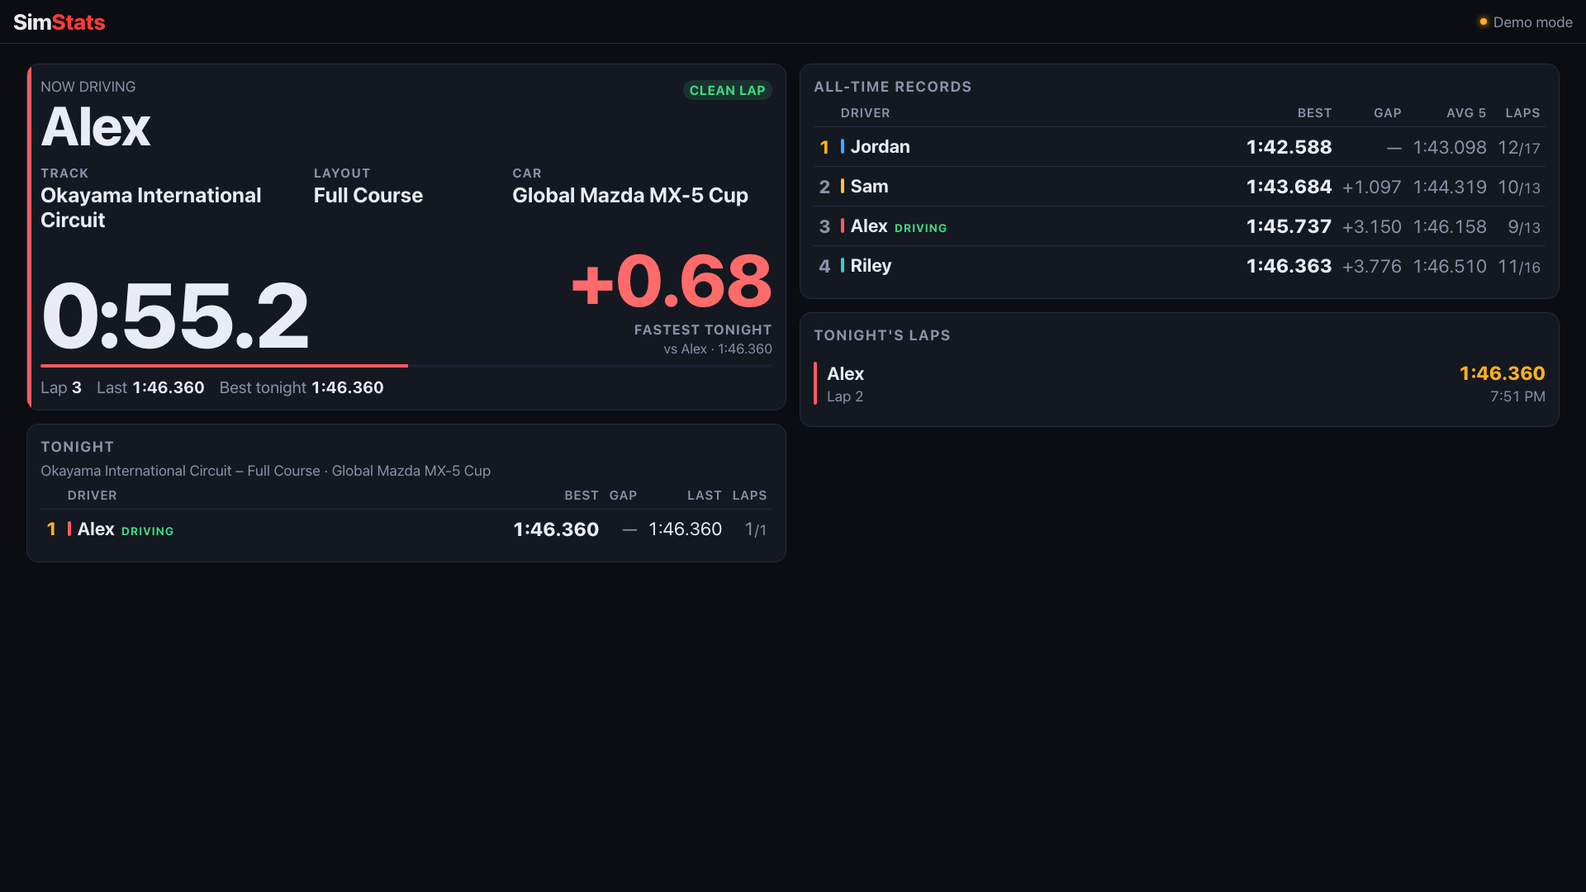
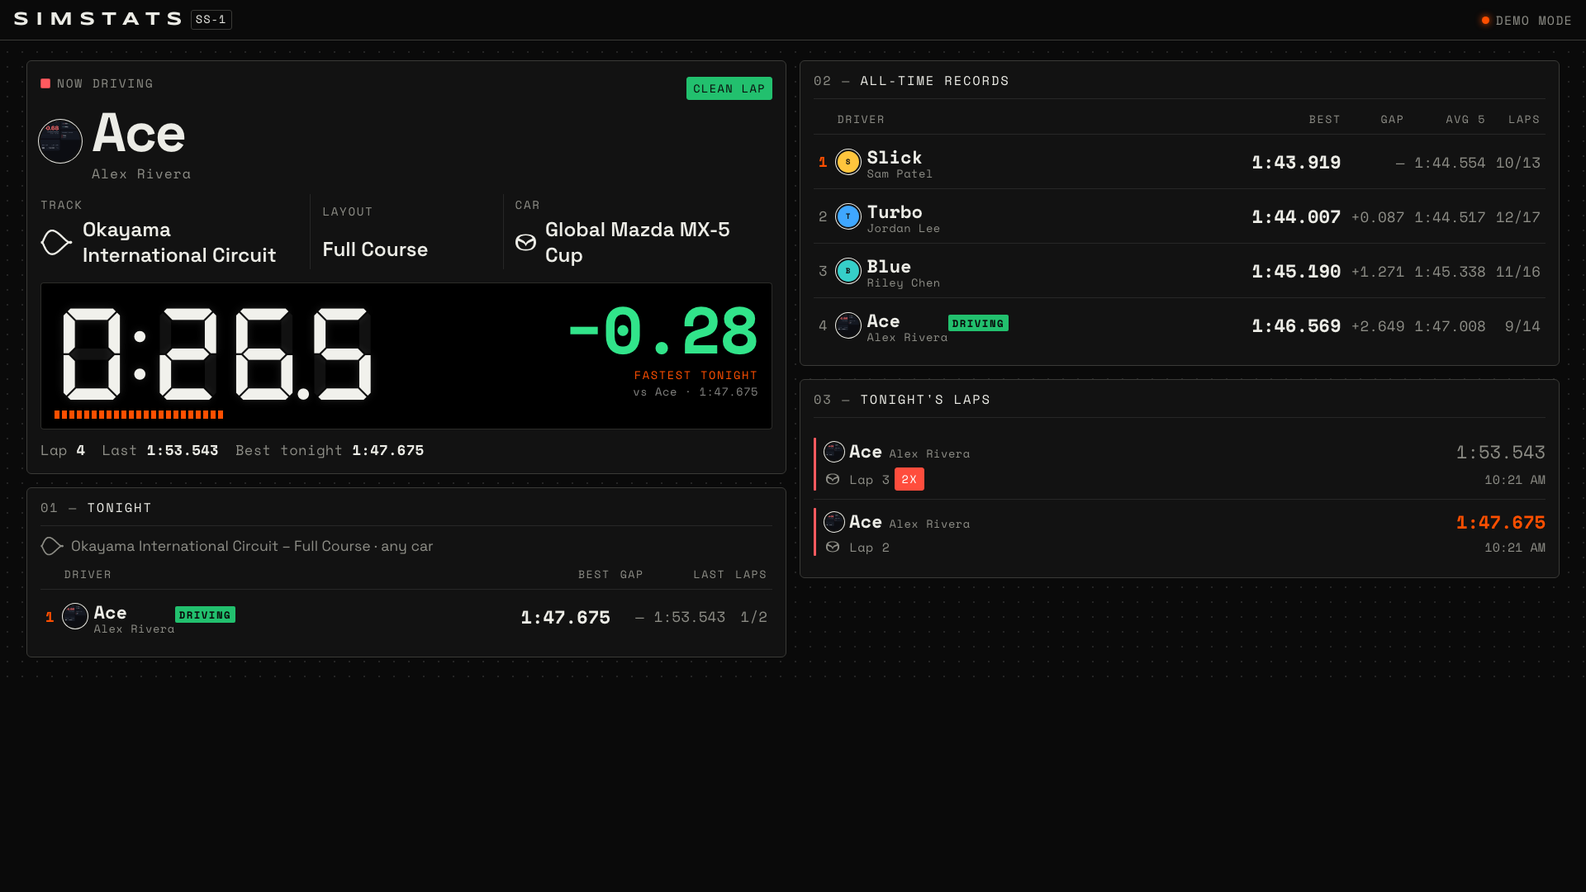
racing: match the SimStats redesign (black dot grid, wordmark, numbered panels) (#11)
Fonts (Space Mono, Syncopate) are self-hosted via next/font. Homepage SimStats
screenshot updated to the new TV view.

diff --git a/app/racing/racing.module.css b/app/racing/racing.module.css
@@ -1,157 +1,216 @@
-/* app/racing/racing.module.css: read-only SimStats dashboard */
+/* app/racing/racing.module.css: read-only SimStats dashboard.
+   Same look as the SimStats app: black dot-grid chassis, dark panels with fine grey
+   outlines, numbered mono labels, one orange accent. */
 
 .root {
-  --bg: #0b0d12;
-  --card: #141821;
-  --card2: #1b2030;
-  --border: #252b3b;
-  --text: #e9ecf3;
-  --muted: #8a93a8;
-  --accent: #dc2626;
-  --record: #b37feb;
-  --night: #ffb020;
-  --pb: #3ddc84;
-  --bad: #ff6b6b;
+  --chassis: #0a0a0a;
+  --grid-dot: rgba(255, 255, 255, 0.11);
+  --panel: #121212;
+  --panel2: #1b1b1a;
+  --ink: #ececE6;
+  --line: #3a3a37;
+  --muted: #8d8d86;
+  --hair: rgba(255, 255, 255, 0.09);
+  --accent: #ff4f00;
+  --record: #8f72ff;
+  --pb: #22c06e;
+  --bad: #ff4d3d;
+  --mono: var(--font-racing-mono), ui-monospace, Menlo, monospace;
   min-height: 100dvh;
-  background: var(--bg);
-  color: var(--text);
+  color: var(--ink);
+  background-color: var(--chassis);
+  background-image: radial-gradient(circle, var(--grid-dot) 1px, transparent 1.3px);
+  background-size: 18px 18px;
+  background-attachment: fixed;
   -webkit-font-smoothing: antialiased;
 }
-.num { font-variant-numeric: tabular-nums; font-feature-settings: "tnum"; }
+.num { font-family: var(--mono); font-variant-numeric: tabular-nums; }
 .muted { color: var(--muted); }
 .small { font-size: 0.8rem; }
 
-/* header */
+/* header: wordmark + model tag + status LED */
 .topbar {
   position: sticky; top: 0; z-index: 10;
   display: flex; align-items: center; justify-content: space-between; gap: 12px;
   padding: calc(12px + env(safe-area-inset-top)) 16px 12px;
-  background: rgba(11, 13, 18, 0.92); backdrop-filter: blur(10px);
-  border-bottom: 1px solid var(--border);
+  background: var(--chassis); border-bottom: 1px solid var(--line);
 }
-.brand { font-weight: 800; font-size: 1.2rem; letter-spacing: -0.02em; display: flex; align-items: baseline; gap: 10px; }
-.brand span { color: var(--accent); }
-.back { font-size: 0.8rem; font-weight: 500; color: var(--muted); }
-.back:hover { color: var(--text); }
-.status { display: flex; align-items: center; gap: 8px; font-size: 0.8rem; color: var(--muted); white-space: nowrap; }
-.dot { width: 8px; height: 8px; border-radius: 50%; background: #555; display: inline-block; }
-.dotLive { background: var(--accent); box-shadow: 0 0 10px var(--accent); animation: pulse 1.6s infinite; }
+.brand { display: flex; align-items: center; gap: 12px; flex-wrap: wrap; }
+.brand > a { display: inline-flex; align-items: center; gap: 10px; }
+.wordmark { font-family: var(--font-racing-wordmark), sans-serif; font-weight: 700; font-size: 1.02rem; letter-spacing: 0.36em; margin-right: -0.36em; }
+.model { font-family: var(--mono); font-size: 0.62rem; letter-spacing: 0.08em; border: 1px solid var(--line); border-radius: 3px; padding: 1px 5px; line-height: 1.4; }
+.back { font-family: var(--mono); font-size: 0.64rem; letter-spacing: 0.1em; text-transform: uppercase; color: var(--muted); }
+.back:hover { color: var(--accent); }
+.status { display: flex; align-items: center; gap: 8px; font-family: var(--mono); font-size: 0.66rem; letter-spacing: 0.08em; text-transform: uppercase; color: var(--muted); white-space: nowrap; }
+.dot { width: 9px; height: 9px; border-radius: 50%; background: #3a3a37; display: inline-block; }
+.dotLive { background: var(--accent); box-shadow: 0 0 8px var(--accent); animation: pulse 1.6s infinite; }
 @keyframes pulse { 50% { opacity: 0.45; } }
 
-.main { max-width: 1400px; margin: 0 auto; padding: 16px; }
-.intro { color: var(--muted); font-size: 0.95rem; margin: 4px 0 16px; line-height: 1.5; }
-.intro a { color: var(--text); text-decoration: underline; text-underline-offset: 3px; }
+.main { max-width: 1400px; margin: 0 auto; padding: 16px; counter-reset: section; }
+.intro { color: var(--muted); font-size: 0.95rem; margin: 4px 0 16px; line-height: 1.55; max-width: 62em; }
+.intro b { color: var(--ink); }
 
 /* "open the full app" (home network only) */
 .localBox { display: flex; flex-wrap: wrap; align-items: center; gap: 8px 14px; margin: 0 0 18px; }
 .localBtn {
-  display: inline-flex; align-items: center; gap: 6px; padding: 9px 14px; border-radius: 10px;
-  border: 1px solid var(--accent); color: #fff; background: rgba(220, 38, 38, 0.15); font-weight: 700; font-size: 0.9rem;
+  display: inline-flex; align-items: center; gap: 6px; padding: 9px 14px; border-radius: 4px;
+  border: 1px solid var(--line); background: var(--accent); color: #111;
+  font-family: var(--mono); font-size: 0.72rem; letter-spacing: 0.08em; text-transform: uppercase;
+  box-shadow: 0 2px 0 #000;
 }
-.localBtn:hover { background: var(--accent); }
-.localNote { color: var(--muted); font-size: 0.78rem; }
+.localBtn:active { transform: translateY(2px); box-shadow: none; }
+.localNote { color: var(--muted); font-family: var(--mono); font-size: 0.66rem; letter-spacing: 0.02em; }
 
-.tabs { display: flex; gap: 4px; margin-bottom: 16px; border-bottom: 1px solid var(--border); }
-.tab { background: none; border: 0; padding: 10px 14px; color: var(--muted); font: inherit; font-weight: 600; cursor: pointer; }
-.tab:hover { color: var(--text); }
-.tabOn { color: var(--text); box-shadow: inset 0 -2px 0 var(--accent); }
+/* tabs: numbered keys */
+.tabs { display: flex; margin-bottom: 16px; border: 1px solid var(--line); border-radius: 4px; overflow: hidden; width: fit-content; background: var(--panel); }
+.tab {
+  position: relative; background: none; border: 0; padding: 8px 16px 9px; cursor: pointer; color: var(--muted);
+  font-family: var(--mono); font-size: 0.7rem; letter-spacing: 0.1em; text-transform: uppercase; text-align: left;
+}
+.tab + .tab { border-left: 1px solid var(--line); }
+.tab:hover { color: var(--ink); }
+.k { display: block; font-size: 0.56rem; opacity: 0.7; margin-bottom: 1px; }
+.tabOn { color: #111; background: var(--ink); }
+.tabOn::after { content: ""; position: absolute; left: 0; right: 0; bottom: 0; height: 3px; background: var(--accent); }
 
-/* cards */
+/* panels */
 .card {
-  background: var(--card); border: 1px solid var(--border); border-radius: 14px;
+  background: var(--panel); border: 1px solid var(--line); border-radius: 6px;
   padding: 16px; margin-bottom: 16px; min-width: 0; overflow-wrap: break-word;
 }
 .cardTitle {
-  margin: 0 0 12px; font-size: 0.78rem; text-transform: uppercase; letter-spacing: 0.08em;
-  color: var(--muted); font-weight: 700; display: flex; justify-content: space-between; align-items: center; gap: 8px;
+  margin: -4px 0 14px; padding-bottom: 10px; border-bottom: 1px solid var(--hair);
+  font-family: var(--mono); font-size: 0.7rem; font-weight: 400; text-transform: uppercase; letter-spacing: 0.12em;
+  display: flex; justify-content: space-between; align-items: center; gap: 8px;
 }
-.empty { color: var(--muted); text-align: center; padding: 24px 8px; }
+.cardTitle > span:first-child::before { counter-increment: section; content: counter(section, decimal-leading-zero) " — "; color: var(--muted); }
+.empty { color: var(--muted); text-align: center; padding: 22px 8px; font-family: var(--mono); font-size: 0.76rem; }
 
 /* now driving */
-.now { position: relative; overflow: hidden; }
-.now::before { content: ""; position: absolute; inset: 0 auto 0 0; width: 5px; background: var(--driver, var(--border)); }
+.now { position: relative; }
 .nowTop { display: flex; justify-content: space-between; align-items: flex-start; gap: 12px; }
-.driverName { font-size: 2rem; font-weight: 800; letter-spacing: -0.02em; line-height: 1.1; }
-.comboInfo { margin: 12px 0 0; display: grid; gap: 6px; }
-.comboInfo > div { display: grid; grid-template-columns: 4.5em 1fr; gap: 8px; align-items: baseline; }
-.comboInfo dt { font-size: 0.7rem; font-weight: 700; text-transform: uppercase; letter-spacing: 0.08em; color: var(--muted); }
-.comboInfo dd { margin: 0; font-weight: 700; }
+.nowTop > div:first-child { flex: 1; min-width: 0; }
+.nowTop .small.muted { font-family: var(--mono); font-size: 0.66rem; letter-spacing: 0.12em; display: flex; align-items: center; gap: 8px; }
+.nowTop .small.muted::before { content: ""; width: 10px; height: 10px; border-radius: 2px; background: var(--driver, var(--line)); }
+.driverName { font-size: 2.1rem; font-weight: 700; letter-spacing: -0.03em; line-height: 1.05; display: flex; align-items: center; gap: 14px; margin-top: 12px; }
+.comboInfo { margin: 16px 0 0; display: grid; border-top: 1px solid var(--hair); }
+.comboInfo > div { display: grid; grid-template-columns: 5.5em 1fr; gap: 8px; align-items: center; padding: 8px 0; border-bottom: 1px solid var(--hair); }
+.comboInfo dt { font-family: var(--mono); font-size: 0.64rem; text-transform: uppercase; letter-spacing: 0.12em; color: var(--muted); }
+.comboInfo dd { margin: 0; font-weight: 600; display: flex; align-items: center; }
 .stale dd { color: var(--muted); }
-.note { margin-top: 10px; font-size: 0.8rem; color: var(--night); }
-.meta { display: flex; flex-wrap: wrap; gap: 8px 18px; margin-top: 12px; font-size: 0.9rem; color: var(--muted); }
-.meta b { color: var(--text); }
+.note { margin-top: 12px; font-family: var(--mono); font-size: 0.7rem; color: var(--accent); }
+.meta { display: flex; flex-wrap: wrap; gap: 6px 20px; margin-top: 12px; font-family: var(--mono); font-size: 0.78rem; color: var(--muted); }
+.meta b { color: var(--ink); }
 
+/* stamped labels */
 .chip {
-  display: inline-flex; align-items: center; gap: 4px; font-size: 0.72rem; font-weight: 700; padding: 3px 8px;
-  border-radius: 999px; background: var(--card2); color: var(--muted); white-space: nowrap;
-  text-transform: uppercase; letter-spacing: 0.03em;
+  display: inline-flex; align-items: center; gap: 4px; white-space: nowrap;
+  font-family: var(--mono); font-size: 0.62rem; letter-spacing: 0.1em; text-transform: uppercase;
+  padding: 3px 7px; border-radius: 3px; border: 1px solid var(--line); color: var(--ink);
 }
-.chipGood { background: rgba(61, 220, 132, 0.14); color: var(--pb); }
-.chipBad { background: rgba(255, 107, 107, 0.14); color: var(--bad); }
-.chipLive { background: rgba(220, 38, 38, 0.18); color: #ff6b6b; }
+.chipGood { background: var(--pb); border-color: var(--pb); color: #0a0a0a; }
+.chipBad { background: var(--bad); border-color: var(--bad); color: #fff; }
+.chipLive { background: var(--accent); border-color: var(--accent); color: #0a0a0a; }
 
-/* segmented control */
-.seg { display: inline-flex; background: var(--card2); border-radius: 8px; padding: 2px; }
-.seg button { border: 0; background: none; padding: 4px 10px; border-radius: 6px; font: inherit; font-size: 0.72rem; font-weight: 700; color: var(--muted); text-transform: uppercase; letter-spacing: 0.05em; cursor: pointer; }
-.seg .segOn { background: var(--border); color: var(--text); }
+/* segmented switch */
+.seg { display: inline-flex; border: 1px solid var(--line); border-radius: 4px; overflow: hidden; }
+.seg button { border: 0; background: none; padding: 4px 9px; cursor: pointer; font-family: var(--mono); font-size: 0.62rem; letter-spacing: 0.1em; text-transform: uppercase; color: var(--muted); }
+.seg button + button { border-left: 1px solid var(--line); }
+.seg .segOn { background: var(--ink); color: #111; }
 
 /* standings */
 .board { width: 100%; border-collapse: collapse; }
-.board th { text-align: right; font-size: 0.7rem; color: var(--muted); font-weight: 600; text-transform: uppercase; letter-spacing: 0.05em; padding: 0 6px 8px; }
+.board th { text-align: right; font-family: var(--mono); font-size: 0.6rem; font-weight: 400; color: var(--muted); text-transform: uppercase; letter-spacing: 0.12em; padding: 0 6px 8px; }
 .board th:nth-child(2) { text-align: left; }
-.board td { padding: 10px 6px; text-align: right; border-top: 1px solid var(--border); white-space: nowrap; }
-.board .name { text-align: left; font-weight: 700; width: 100%; white-space: normal; }
-.board .pos { width: 2.2em; text-align: center; font-weight: 800; color: var(--muted); }
-.board .p1 .pos { color: var(--night); }
-.board .best { font-weight: 800; font-size: 1.05rem; }
-.nameInner { display: inline-flex; align-items: center; gap: 8px; }
-.bar { width: 4px; height: 18px; border-radius: 2px; background: var(--c); flex: none; align-self: flex-start; margin-top: 2px; }
-.bestCar { display: block; font-size: 0.72rem; font-weight: 500; color: var(--muted); }
-.driving { margin-left: 8px; font-size: 0.62rem; color: var(--pb); text-transform: uppercase; letter-spacing: 0.06em; }
+.board td { padding: 10px 6px; text-align: right; border-top: 1px solid var(--hair); white-space: nowrap; }
+.board .name { text-align: left; font-weight: 600; width: 100%; white-space: normal; }
+.board .pos { width: 2.4em; text-align: center; font-family: var(--mono); font-size: 0.78rem; color: var(--muted); }
+.board .p1 .pos { color: var(--accent); font-weight: 700; }
+.board .best { font-family: var(--mono); font-weight: 700; }
+.board td.muted { font-size: 0.8rem; }
+.nameInner { display: inline-flex; align-items: center; gap: 10px; }
+.driving { display: inline-block; font-family: var(--mono); font-size: 0.56rem; letter-spacing: 0.12em; text-transform: uppercase; color: #0a0a0a; background: var(--pb); padding: 1px 5px; border-radius: 2px; }
+.drivingBelow { display: inline-block; margin: 3px 0 0; }
 .hideSm { display: none; }
-.comboSub { margin: -4px 0 10px; font-size: 0.8rem; color: var(--muted); }
+.comboSub { margin: -4px 0 10px; font-size: 0.8rem; color: var(--muted); display: flex; align-items: center; flex-wrap: wrap; }
+.boardSub { flex-wrap: nowrap; }
 
 /* laps */
 .laps { list-style: none; margin: 0; padding: 0; }
-.laps li { display: grid; grid-template-columns: 4px 1fr auto; gap: 4px 12px; align-items: center; padding: 10px 0; border-top: 1px solid var(--border); }
+.laps li { display: grid; grid-template-columns: 3px 1fr auto; gap: 3px 12px; align-items: center; padding: 10px 0; border-top: 1px solid var(--hair); }
 .laps li:first-child { border-top: 0; }
-.lapBar { grid-row: span 2; align-self: stretch; border-radius: 2px; background: var(--c, var(--border)); }
-.who { font-weight: 700; }
-.t { font-weight: 800; font-size: 1.05rem; text-align: right; }
-.lapMeta { display: flex; gap: 6px; flex-wrap: wrap; align-items: center; color: var(--muted); font-size: 0.8rem; }
-.lapMetaR { text-align: right; color: var(--muted); font-size: 0.8rem; }
-.dirty .t { color: var(--muted); font-weight: 600; }
+.lapBar { grid-row: span 2; align-self: stretch; border-radius: 1px; background: var(--c, var(--line)); }
+.who { font-weight: 600; display: inline-flex; align-items: center; }
+.t { font-family: var(--mono); font-weight: 700; text-align: right; }
+.lapMeta { display: flex; gap: 6px; flex-wrap: wrap; align-items: center; color: var(--muted); font-family: var(--mono); font-size: 0.68rem; }
+.lapMetaR { text-align: right; color: var(--muted); font-family: var(--mono); font-size: 0.68rem; }
+.dirty .t { color: var(--muted); font-weight: 400; }
 .tRecord { color: var(--record); }
-.tNight { color: var(--night); }
+.tNight { color: var(--accent); }
 .tPb { color: var(--pb); }
 
 /* records / nights */
 .grid { display: grid; gap: 16px; align-items: start; }
 .grid .card { margin-bottom: 0; }
-.comboHead { display: flex; justify-content: space-between; align-items: baseline; gap: 12px; margin-bottom: 12px; }
+.comboHead { display: flex; justify-content: space-between; align-items: flex-start; gap: 12px; margin-bottom: 12px; padding-bottom: 12px; border-bottom: 1px solid var(--hair); }
 .comboHead h3 { margin: 0; font-size: 1.05rem; }
-.car { color: var(--muted); font-size: 0.9rem; margin-top: 2px; }
+.comboHead > .small { font-family: var(--mono); font-size: 0.64rem; letter-spacing: 0.06em; text-transform: uppercase; white-space: nowrap; }
+.car { color: var(--muted); font-size: 0.82rem; margin-top: 4px; display: flex; flex-wrap: wrap; }
 .nightBtn {
   width: 100%; display: flex; justify-content: space-between; align-items: center; gap: 12px; text-align: left;
-  background: none; border: 0; border-top: 1px solid var(--border); padding: 14px 0; color: inherit; font: inherit; cursor: pointer;
+  background: none; border: 0; border-top: 1px solid var(--hair); padding: 14px 0; color: inherit; font: inherit; cursor: pointer;
 }
 .nightBtn:first-of-type { border-top: 0; }
+.nightBtn .small { font-family: var(--mono); font-size: 0.68rem; }
 .nightBody { padding: 0 0 12px; }
-.nightBody h4 { margin: 12px 0 8px; font-size: 0.95rem; }
+.nightBody h4 { margin: 12px 0 6px; font-size: 0.95rem; }
 
-/* toasts */
-.toasts { position: fixed; top: calc(70px + env(safe-area-inset-top)); left: 0; right: 0; z-index: 30; display: flex; flex-direction: column; align-items: center; gap: 8px; pointer-events: none; padding: 0 12px; }
+/* pop-ups: LCD readouts */
+.toasts { position: fixed; top: calc(66px + env(safe-area-inset-top)); left: 0; right: 0; z-index: 30; display: flex; flex-direction: column; align-items: center; gap: 8px; pointer-events: none; padding: 0 12px; }
 .toast {
-  background: var(--card2); border: 1px solid var(--border); border-left: 5px solid var(--c, var(--muted));
-  border-radius: 12px; padding: 12px 16px; box-shadow: 0 10px 30px rgba(0, 0, 0, 0.4);
+  background: #000; color: #f1f1ec; border: 1px solid var(--line); border-left: 5px solid var(--c, var(--accent)); border-radius: 4px;
+  padding: 12px 16px; box-shadow: 0 10px 30px rgba(0, 0, 0, 0.5);
   max-width: 520px; width: 100%; display: flex; justify-content: space-between; align-items: center; gap: 12px;
   animation: drop 0.25s ease-out;
 }
-.toastLabel { font-size: 0.72rem; font-weight: 800; text-transform: uppercase; letter-spacing: 0.1em; color: var(--c); }
+.toastLabel { font-family: var(--mono); font-size: 0.64rem; text-transform: uppercase; letter-spacing: 0.14em; color: var(--accent); }
 @keyframes drop { from { transform: translateY(-16px); opacity: 0; } }
 
-.footer { color: var(--muted); font-size: 0.8rem; text-align: center; padding: 8px 0 32px; }
-.footer a { color: var(--text); }
+.footer { color: var(--muted); font-family: var(--mono); font-size: 0.66rem; letter-spacing: 0.06em; text-transform: uppercase; text-align: center; padding: 8px 0 32px; }
+.footer a { color: var(--ink); }
+
+/* driver photos, car-maker logos, track outlines */
+.avatar {
+  --size: 28px;
+  width: var(--size); height: var(--size); flex: none; border-radius: 50%; object-fit: cover;
+  display: inline-flex; align-items: center; justify-content: center;
+  background: var(--c, var(--panel2)); color: #111; font-family: var(--mono); font-weight: 700; font-size: calc(var(--size) * 0.36);
+  box-shadow: 0 0 0 2px var(--panel), 0 0 0 3px var(--ink);
+}
+.avatar_xs { --size: 20px; margin-right: 8px; }
+.avatar_sm { --size: 26px; }
+.avatar_md { --size: 34px; }
+.avatar_lg { --size: 48px; }
+.toast .avatar { box-shadow: 0 0 0 2px #000, 0 0 0 3px var(--c, #f1f1ec); }
+
+.brandLogo {
+  display: inline-block; width: 1.05em; height: 1.05em; margin-right: 0.45em; vertical-align: -0.15em; flex: none;
+  background: currentColor; -webkit-mask: var(--logo) center / contain no-repeat; mask: var(--logo) center / contain no-repeat;
+}
+.carLabel { display: inline-flex; align-items: center; }
+.carItem { display: inline-flex; align-items: center; margin-right: 12px; }
+.bestCar { display: block; font-size: 0.7rem; color: var(--muted); white-space: nowrap; overflow: hidden; text-overflow: ellipsis; max-width: 11em; }
+
+.trackMap { width: 1.6em; height: 1.6em; margin-right: 0.5em; flex: none; }
+.trackMap path { fill: none; stroke: currentColor; stroke-width: 6; stroke-linejoin: round; }
+.trackMapLg { width: 2.8em; height: 2.8em; color: var(--accent); padding: 4px; border: 1px solid var(--hair); border-radius: 4px; background: var(--panel2); }
+.titleRow { display: flex; align-items: center; gap: 8px; }
+
+/* nickname big, real name small underneath */
+.dname { display: inline-flex; flex-direction: column; line-height: 1.12; min-width: 0; }
+.realname { font-family: var(--mono); font-size: 0.62rem; font-weight: 400; color: var(--muted); letter-spacing: 0.04em; white-space: nowrap; overflow: hidden; text-overflow: ellipsis; max-width: 14em; }
+.dnameLg .realname { font-size: 0.74rem; margin-top: 4px; letter-spacing: 0.06em; }
+.dnameInline { flex-direction: row; align-items: baseline; gap: 8px; }
 
 @media (min-width: 640px) {
   .hideSm { display: table-cell; }
@@ -159,49 +218,7 @@
 @media (min-width: 1100px) {
   .liveGrid { display: grid; grid-template-columns: 1.1fr 1fr; gap: 16px; align-items: start; }
   .grid { grid-template-columns: repeat(auto-fill, minmax(460px, 1fr)); }
-  .comboInfo { grid-template-columns: 1.4fr 1fr 1.4fr; gap: 16px; align-items: start; }
-  .comboInfo > div { grid-template-columns: 1fr; gap: 2px; }
+  .comboInfo { grid-template-columns: 1.4fr 1fr 1.4fr; border-top: 0; }
+  .comboInfo > div { grid-template-columns: 1fr; gap: 4px; border-bottom: 0; border-left: 1px solid var(--hair); padding: 2px 14px; }
+  .comboInfo > div:first-child { border-left: 0; padding-left: 0; }
 }
-
-/* driver photos, car-maker logos, track outlines */
-.avatar {
-  --size: 28px;
-  width: var(--size); height: var(--size); flex: none; border-radius: 50%; object-fit: cover;
-  display: inline-flex; align-items: center; justify-content: center;
-  background: var(--c, var(--card2)); color: #0b0d12; font-weight: 800; font-size: calc(var(--size) * 0.4);
-  box-shadow: 0 0 0 2px var(--card), 0 0 0 3px var(--c, var(--border));
-}
-.avatar_xs { --size: 20px; margin-right: 8px; }
-.avatar_sm { --size: 26px; }
-.avatar_md { --size: 36px; }
-.avatar_lg { --size: 44px; }
-.driverName { display: flex; align-items: center; gap: 12px; }
-.nameInner { gap: 10px; }
-.who { display: inline-flex; align-items: center; }
-.toast { gap: 12px; }
-
-.brandLogo {
-  display: inline-block; width: 1.05em; height: 1.05em; margin-right: 0.4em; vertical-align: -0.15em; flex: none;
-  background: currentColor; opacity: 0.85;
-  -webkit-mask: var(--logo) center / contain no-repeat; mask: var(--logo) center / contain no-repeat;
-}
-.carLabel { display: inline-flex; align-items: center; }
-.carItem { display: inline-flex; align-items: center; margin-right: 12px; }
-.bestCar { white-space: nowrap; overflow: hidden; text-overflow: ellipsis; max-width: 11em; }
-.comboInfo dd { display: flex; align-items: center; }
-.comboSub { display: flex; align-items: center; flex-wrap: wrap; }
-
-.trackMap { width: 1.6em; height: 1.6em; margin-right: 0.5em; flex: none; }
-.trackMap path { fill: none; stroke: currentColor; stroke-width: 7; stroke-linejoin: round; opacity: 0.9; }
-.trackMapLg { width: 2.6em; height: 2.6em; color: var(--accent); }
-.titleRow { display: flex; align-items: center; gap: 4px; }
-.boardSub { flex-wrap: nowrap; }
-
-/* nickname big, real name small underneath */
-.dname { display: inline-flex; flex-direction: column; line-height: 1.15; min-width: 0; }
-.realname { font-size: 0.7rem; font-weight: 500; color: var(--muted); white-space: nowrap; overflow: hidden; text-overflow: ellipsis; max-width: 12em; }
-.dnameLg .realname { font-size: 0.85rem; margin-top: 2px; }
-.dnameInline { flex-direction: row; align-items: baseline; gap: 6px; }
-.drivingBelow { display: block; margin: 2px 0 0; }
-/* room for the photo's ring so it doesn't overlap the "NOW DRIVING" label */
-.driverName { margin-top: 10px; }

diff --git a/app/racing/RacingApp.tsx b/app/racing/RacingApp.tsx
@@ -122,7 +122,8 @@ export default function RacingApp({ initial }: { initial: RacingSnapshot }) {
       <header className={s.topbar}>
         <div className={s.brand}>
           <a href="/racing">
-            Sim<span>Stats</span>
+            <span className={s.wordmark}>SIMSTATS</span>
+            <span className={s.model}>SS-1</span>
           </a>
           <Link href="/" className={s.back}>
             by Alex Maat
@@ -153,8 +154,9 @@ export default function RacingApp({ initial }: { initial: RacingSnapshot }) {
         )}
 
         <nav className={s.tabs} aria-label="Views">
-          {(["live", "records", "nights"] as Tab[]).map((t) => (
+          {(["live", "records", "nights"] as Tab[]).map((t, i) => (
             <button key={t} className={`${s.tab} ${tab === t ? s.tabOn : ""}`} onClick={() => setTab(t)}>
+              <span className={s.k}>0{i + 1}</span>
               {t === "live" ? (tonightActive || isLive ? "Tonight" : "Latest") : t === "records" ? "Records" : "Nights"}
             </button>
           ))}

diff --git a/app/racing/layout.tsx b/app/racing/layout.tsx
@@ -1,0 +1,9 @@
+// app/racing/layout.tsx: fonts for the SimStats page (self-hosted by next/font at build time).
+import { Space_Mono, Syncopate } from "next/font/google";
+
+const mono = Space_Mono({ subsets: ["latin"], weight: ["400", "700"], variable: "--font-racing-mono", display: "swap" });
+const wordmark = Syncopate({ subsets: ["latin"], weight: ["700"], variable: "--font-racing-wordmark", display: "swap" });
+
+export default function RacingLayout({ children }: { children: React.ReactNode }) {
+  return <div className={`${mono.variable} ${wordmark.variable}`}>{children}</div>;
+}
